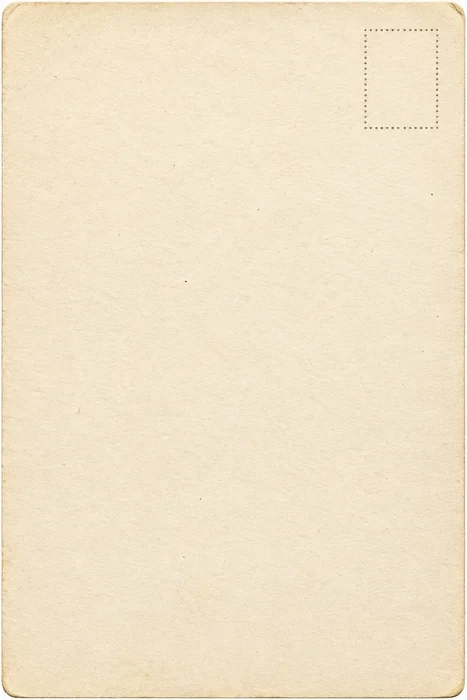
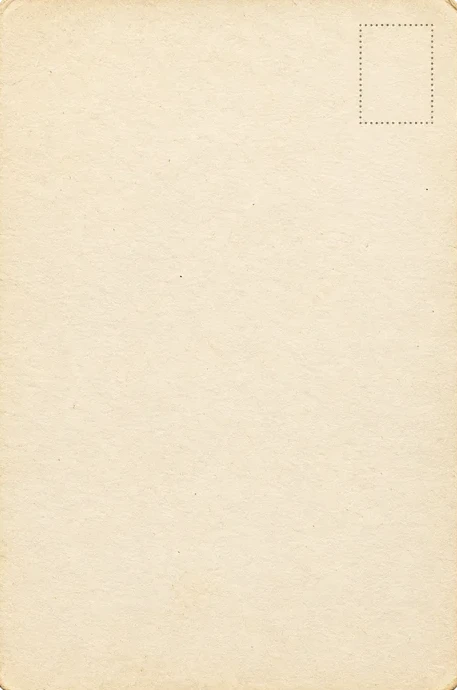
build-28 준비: 샤넬팀 실기기 화면 검수 4건 — 원고지 아래 잘림, 엽서 흰 가장자리, 열린 폴더 동안 하단 문구 숨김, MONSIEUR 집 카드 위로; CAPTION 날짜 표기, 미분류 문구 줄임
Claude-Session: https://claude.ai/code/session_018aKyYtwF79YZ5v8zAUEZTr

diff --git a/app/src/main/java/com/kiouvici/monsieur/Drawers.kt b/app/src/main/java/com/kiouvici/monsieur/Drawers.kt
@@ -161,7 +161,7 @@ internal fun MainActivity.buildStage() {
                 vertical = look.libOrder == 0; rows = maxOf(15, (folders.size + 1) / 2)
             }
             ms.measureFor(W, H)
-            val needH = ((ms.rows * 44f + 8f) * ms.u).roundToInt()
+            val needH = ((ms.rows * 44f + 14f) * ms.u).roundToInt()
             stageIn.addView(ms, FrameLayout.LayoutParams(W, maxOf(H, needH)))
             var waiting = 0
             folders.forEachIndexed { i, id ->
@@ -254,8 +254,7 @@ internal fun MainActivity.buildStage() {
     stageIn.requestLayout()
     val n = folders.size
     val un = repo.unassigned().size
-    folio.text = folioBase.format(if (n == 1) "1 FOLDER" else "$n FOLDERS") +
-        (if (un > 0) " · UNSORTED $un" else "")
+    folio.text = if (un > 0) "$n FOLDERS · UNSORTED $un" else folioBase.format(if (n == 1) "1 FOLDER" else "$n FOLDERS")
 }
 
 /** 폴더 보기 하나에 공통 동작: 누르면 열기 · 길게 누르면 메뉴 · 앱을 끌어 놓으면 옮기기 */
@@ -531,6 +530,7 @@ class BookSpread(private val ctx: Context) : android.graphics.drawable.Drawable(
 /** ③ HOUR 열린 폴더 (H3): 세라믹 판 + 창 4열, 넘치면 판 안에서 스크롤, 각진 CLOSE */
 internal fun MainActivity.showHourOpen(id: String) {
     hideThemeOpen()
+    footVisible(false)
     cardFolder = id
     val list = repo.appsIn(id)
     val layer = FrameLayout(this).apply { setBackgroundColor(Color.argb(150, 0, 0, 0)); elevation = dpf(24f); isClickable = true; setOnClickListener { hideCard() } }
@@ -564,6 +564,7 @@ internal fun MainActivity.showHourOpen(id: String) {
 /** ④ VOYAGE 열린 폴더: 엽서 카드 — 우표 칸에 번호, 앱 5열, 남색 CLOSE */
 internal fun MainActivity.showVoyageOpen(id: String) {
     hideThemeOpen()
+    footVisible(false)
     cardFolder = id
     val list = repo.appsIn(id)
     val no = repo.folders().indexOf(id) + 1
@@ -601,6 +602,7 @@ internal fun MainActivity.showVoyageOpen(id: String) {
 /** ⑤ CAPTION 열린 폴더: 사진 위에 제목과 앱 목록 2열 (한 화면, 넘치면 목록만 스크롤) */
 internal fun MainActivity.showCaptionOpen(id: String) {
     hideThemeOpen()
+    footVisible(false)
     cardFolder = id
     val layer = FrameLayout(this).apply { elevation = dpf(24f); isClickable = true }
     layer.addView(View(this).apply { background = themeCover.photoDrawable() }, FrameLayout.LayoutParams(-1, -1))
@@ -629,6 +631,7 @@ internal fun MainActivity.showCaptionOpen(id: String) {
 /** ② LIBRARY 열린 폴더: 펼친 책 두 쪽 — 왼쪽 VOL·제목·앱 수 + 앱 2열×4, 오른쪽 앱 2열×6 (한 번에 20개), 넘기기, 빨간 리본 CLOSE */
 internal fun MainActivity.showLibraryOpen(id: String, page: Int = 0) {
     hideThemeOpen()
+    footVisible(false)
     cardFolder = id
     val list = repo.appsIn(id)
     val pages = maxOf(1, (list.size + 19) / 20)
@@ -691,6 +694,7 @@ internal fun MainActivity.showLibraryOpen(id: String, page: Int = 0) {
 internal fun MainActivity.hideThemeOpen(): Boolean {
     val l = themeOpen ?: return false
     root.removeView(l); themeOpen = null
+    footVisible(true)
     return true
 }
 

diff --git a/app/src/main/java/com/kiouvici/monsieur/MediaPage.kt b/app/src/main/java/com/kiouvici/monsieur/MediaPage.kt
@@ -564,8 +564,8 @@ class MediaPage(ctx: Context, private val host: MediaHost) : FrameLayout(ctx) {
         val card = FrameLayout(context).apply {
             background = Style.tile(context, Style.PAPER, 256f); foreground = InsetBox(Style.ink(.45f), L.zf(.75f), L.zf(4f)); elevation = L.zf(8f)
         }
-        L.addLR(card, 16f, 16f, 712f, 160f)
-        val CL = Lay(context, card, L.w - L.x(32f), L.z(160f), 380f, 160f)
+        L.addLR(card, 16f, 16f, 704f, 152f)
+        val CL = Lay(context, card, L.w - L.x(32f), L.z(152f), 380f, 152f)
         CL.add(CL.t("À LA MAISON", Style.jost(context, 400), 10f, Style.GILT, .3f), 16f, 14f)
         fun mrow(top: Float, isAtv: Boolean) {
             val r = FrameLayout(context); CL.addLR(r, 16f, 16f, top, 58f)
@@ -580,7 +580,7 @@ class MediaPage(ctx: Context, private val host: MediaHost) : FrameLayout(ctx) {
             if (isAtv) { atvName = nm; atvSub = st; atvBtn = b } else { mzName = nm; mzState = st; mzBtn = b }
             houseViews += r
         }
-        mrow(38f, true); mrow(98f, false)
+        mrow(34f, true); mrow(92f, false)
         // 비었을 때 · 조용할 때
         val q = LinearLayout(context).apply { orientation = LinearLayout.VERTICAL; gravity = Gravity.CENTER_HORIZONTAL }
         val qt = CL.t("집은 조용합니다", Style.kr(context, 400), 15f, Style.INK, 0f, Gravity.CENTER); quietTitle = qt

diff --git a/app/src/main/java/com/kiouvici/monsieur/MainActivity.kt b/app/src/main/java/com/kiouvici/monsieur/MainActivity.kt
@@ -1429,6 +1429,11 @@ class MainActivity : ComponentActivity(), MediaHost {
         }
     }
 
+    /** 열린 폴더가 떠 있는 동안 서랍의 검색줄·하단 문구를 숨김 (리본·닫기와 겹치지 않게) */
+    internal fun footVisible(on: Boolean) {
+        listOf(search.parent as? View, folio.parent?.parent as? View).forEach { it?.visibility = if (on) View.VISIBLE else View.INVISIBLE }
+    }
+
     internal fun hideKeyboardFor(v: View) { (getSystemService(INPUT_METHOD_SERVICE) as InputMethodManager).hideSoftInputFromWindow(v.windowToken, 0) }
 
     // ───────── THE VOYAGE 여행 사진 (최대 6장 · 앱 안에 복사) ─────────

diff --git a/app/src/main/java/com/kiouvici/monsieur/Theme28.kt b/app/src/main/java/com/kiouvici/monsieur/Theme28.kt
@@ -265,8 +265,8 @@ class Manuscript(ctx: Context) : View(ctx) {
     private val tp = Paint(Paint.ANTI_ALIAS_FLAG).apply { textAlign = Paint.Align.CENTER }
 
     fun measureFor(w: Int, h: Int) {
-        u = minOf(w / 384f, h / (rows * 44f + 8f))
-        ox = (w - 380 * u) / 2f; oy = 4 * u
+        u = minOf(w / 390f, h / (rows * 44f + 14f))
+        ox = (w - 380 * u) / 2f; oy = 5 * u
     }
     /** 폴더 i의 줄·쪽(0 왼쪽 1 오른쪽) */
     fun slot(i: Int): Pair<Int, Int> = if (vertical) (i % rows) to (i / rows) else (i / 2) to (i % 2)

diff --git a/app/src/main/java/com/kiouvici/monsieur/Covers.kt b/app/src/main/java/com/kiouvici/monsieur/Covers.kt
@@ -200,7 +200,7 @@ class ThemeCover(ctx: Context, private val look: Look) : FrameLayout(ctx) {
         hWx?.text = wx
         vTime?.text = "%02d:%02d".format(hh, mm)
         vWx?.text = wx
-        cTime?.text = "%02d:%02d, %s %d · %d".format(hh, mm, dayE.lowercase().replaceFirstChar { it.uppercase() }, mon, day)
+        cTime?.text = "%02d:%02d, %s, %d %s".format(hh, mm, dayE.lowercase().replaceFirstChar { it.uppercase() }, day, monE.lowercase().replaceFirstChar { it.uppercase() })
         cWx?.text = wx
     }
 }
